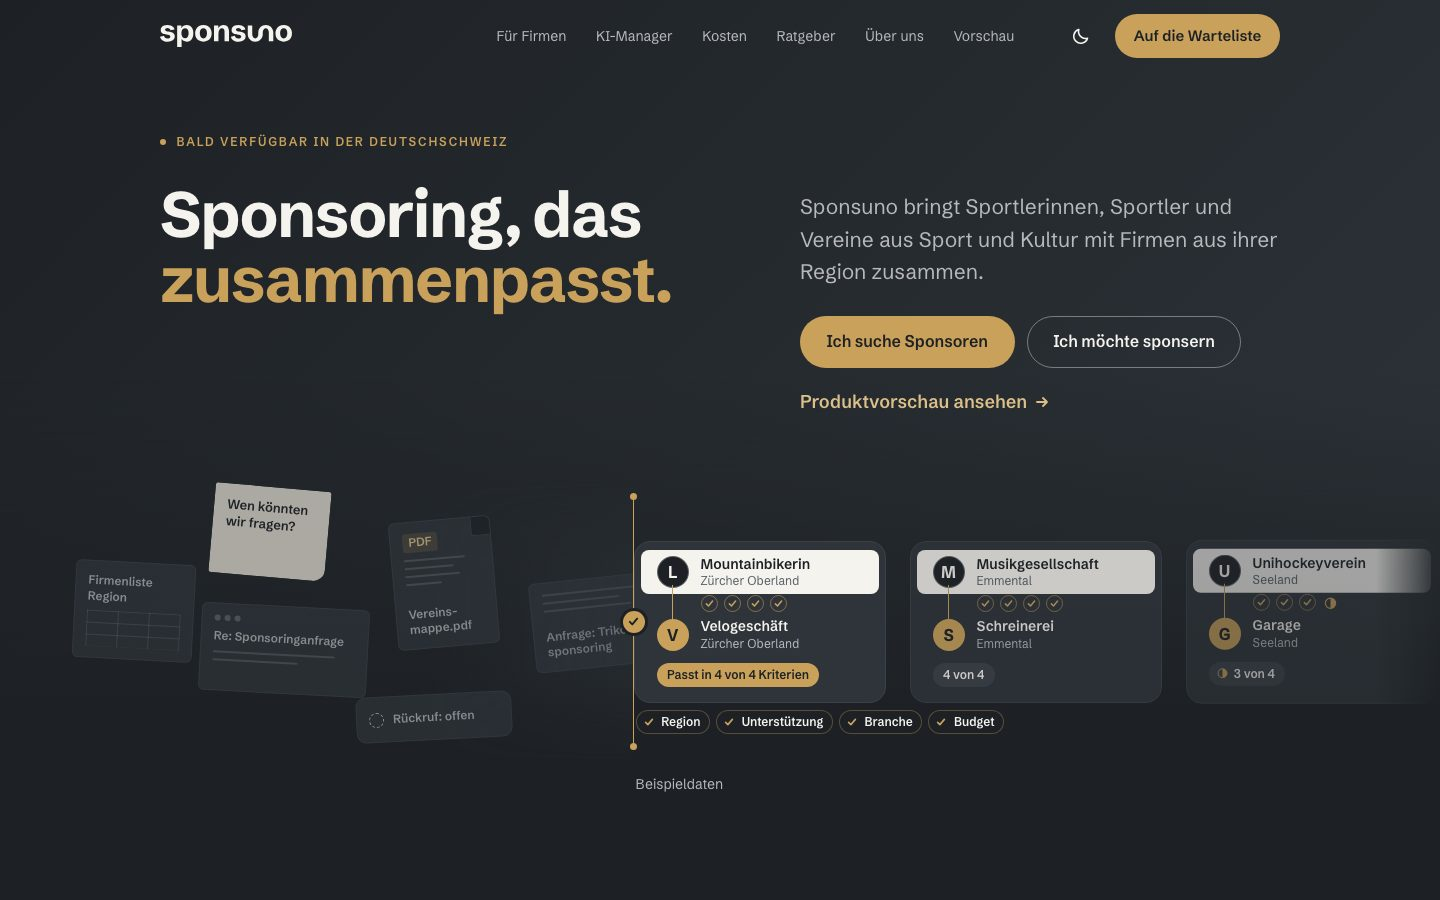
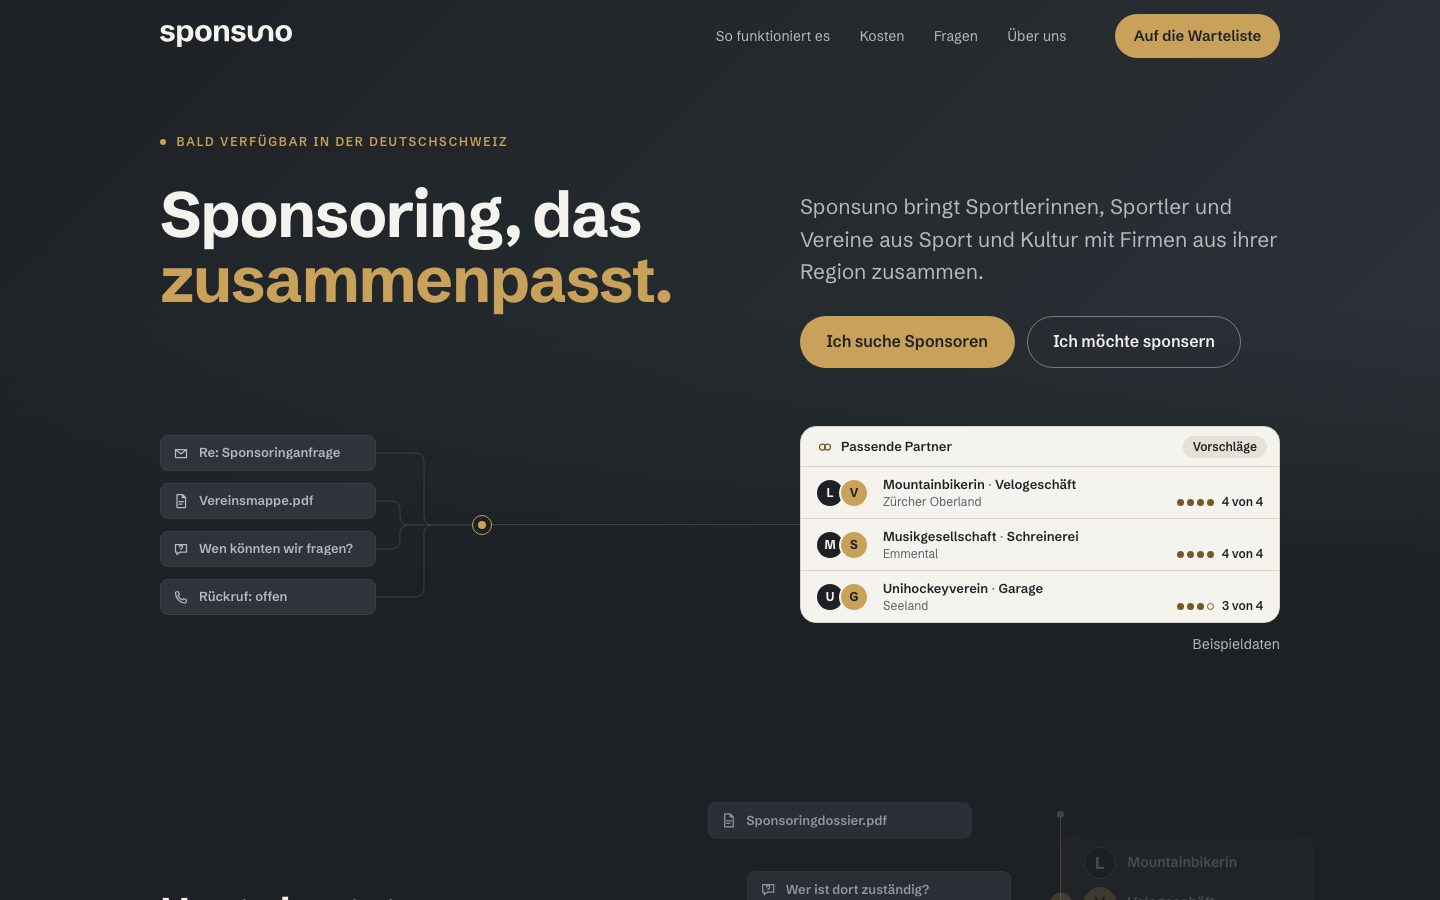
Update Sponsuno: the site without the product preview, new screenshots
sponsuno.ch no longer shows the product preview, Für Firmen, KI-Manager or
the guides. The entry now describes the live site and shows five new
screenshots of it: hero, scroll story, how it works, pricing and team.

diff --git a/src/content/apps.ts b/src/content/apps.ts
@@ -270,17 +270,17 @@ export const apps: App[] = [
     name: 'Sponsuno',
     tagline: 'Matching athletes and clubs with sponsors from their own region.',
     description:
-      'Sponsuno is the startup I am building with a team of four in the Youngpreneurs Zurich programme. The planned platform pairs athletes, sport clubs and culture clubs with sponsors from their region, starting in German-speaking Switzerland.\n\nThe product itself is not live yet. What is public so far is the website and a clickable preview of the product.',
+      'Sponsuno is the startup I am building with a team of four in the Youngpreneurs Zurich programme. The planned platform pairs athletes, sport clubs and culture clubs with sponsors from their region, starting in German-speaking Switzerland.\n\nThe product itself is not live yet. What is public so far is the website: the idea, how it works, the pricing model, questions and the team, with a waitlist.',
     year: '2026',
     kind: 'web',
     platforms: ['Web'],
     stack: ['React 19', 'TypeScript', 'Vite 8', 'CSS scroll-driven animations', 'Cloudflare Workers', 'Durable Objects', 'Playwright'],
-    status: 'Pre-launch, live site and preview',
+    status: 'Pre-launch, live site',
     highlights: [
-      'Clickable product preview for athletes and sponsors, running on example data',
-      'Matching on four criteria: region, type of support, industry and budget',
-      'Pages prerendered at build time, no animation libraries',
-      'Deployed to Cloudflare Workers on every push to main',
+      'Hero that shows the product idea: incoming requests run into one node and come out as ranked matches, CSS only',
+      'Scroll story built from the team’s interviews, prerendered and readable without JavaScript',
+      'Own design system: Graphit, Messing and Kalk, Schibsted Grotesk and a loop wordmark',
+      'Waitlist with double opt-in on a Cloudflare Worker, deployed on every push to main',
     ],
     repoUrl: 'https://github.com/platret/sponsuno',
     liveUrl: 'https://sponsuno.ch',
@@ -288,39 +288,39 @@ export const apps: App[] = [
     icon: 'images/apps/sponsuno/icon.png',
     featured: 2,
     story: {
-      built: 'The whole public side: sponsuno.ch, a clickable product preview that runs on example data in the browser, the AI sponsoring-manager concept, topic and guide pages, and the deploy pipeline on Cloudflare.',
-      choice: 'Honest by design. The platform is not live yet, so every preview screen is labelled as example data.',
+      built: 'The whole public side: sponsuno.ch with its design system and logo, the scroll story, the topic pages, the waitlist backend and the deploy pipeline on Cloudflare.',
+      choice: 'Honest by design. The platform is not live yet, so every illustration with people or companies is labelled as example data.',
     },
     screenshots: [
       {
         file: 'images/apps/sponsuno/01-home.jpg',
-        alt: 'Sponsuno homepage: “Sponsoring, das zusammenpasst” with matched athlete and sponsor cards',
+        alt: 'Sponsuno homepage: “Sponsoring, das zusammenpasst” with requests running into one node and a list of matched partners',
         frame: 'browser',
         caption: 'Two audiences, one match: clubs looking for support and local companies that want to give it.',
       },
       {
-        file: 'images/apps/sponsuno/02-demo.jpg',
-        alt: 'Sponsuno preview dashboard greeting an example athlete with partnerships and upcoming dates',
+        file: 'images/apps/sponsuno/02-story.jpg',
+        alt: 'Sponsuno scroll story: loose requests and open questions on the left, ordered pairs of athlete and company on the right',
         frame: 'browser',
-        caption: 'A clickable preview of the athlete dashboard, running on example data in the browser.',
+        caption: 'The scroll story turns what athletes told us in interviews into one picture, step by step.',
       },
       {
-        file: 'images/apps/sponsuno/04-matches.jpg',
-        alt: 'Sponsuno preview: suggested sponsors for an example athlete, ranked by the four matching criteria',
+        file: 'images/apps/sponsuno/03-how.jpg',
+        alt: 'How Sponsuno works: two cards with four numbered steps, one for athletes and clubs, one for companies',
         frame: 'browser',
-        caption: 'Suggested sponsors, ranked by region, type of support, industry and budget.',
+        caption: 'One flow for both sides, from the first profile to the review after the season.',
       },
       {
-        file: 'images/apps/sponsuno/05-sponsor-cockpit.jpg',
-        alt: 'Sponsuno preview: the sponsor cockpit with a new request, a running partnership and the yearly budget',
+        file: 'images/apps/sponsuno/04-kosten.jpg',
+        alt: 'Sponsuno pricing page with the cost model on a graphit page header',
         frame: 'browser',
-        caption: 'The same preview from the sponsor side: requests, partnerships and the budget for the year.',
+        caption: 'No subscription and no base fee. Open points stay open until they are decided.',
       },
       {
-        file: 'images/apps/sponsuno/03-ki-manager.jpg',
-        alt: 'Sponsuno AI manager page with a drafted sponsoring request',
+        file: 'images/apps/sponsuno/05-team.jpg',
+        alt: 'Sponsuno about page: four team cards and the project status as a short timeline',
         frame: 'browser',
-        caption: 'The AI manager drafts requests and reminders. Nothing goes out before you approve it.',
+        caption: 'The team behind it and where the project stands.',
       },
     ],
   },

diff --git a/src/content/history.ts b/src/content/history.ts
@@ -50,7 +50,7 @@ export const history: HistoryItem[] = [
   {
     year: '2026',
     title: 'Sponsuno',
-    detail: 'Started a sponsoring startup with a team of four. Built sponsuno.ch, the product preview and the pipeline that ships it.',
+    detail: 'Started a sponsoring startup with a team of four. Built sponsuno.ch, its design system and the pipeline that ships it.',
     to: '/apps/sponsuno',
   },
   {
